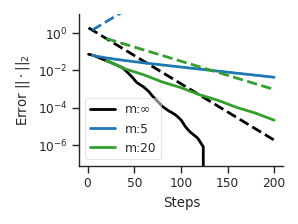
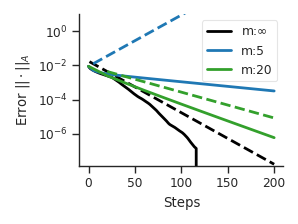
cg bounds in A norm

diff --git a/experiments/cg_bounds.py b/experiments/cg_bounds.py
@@ -2,6 +2,7 @@ import matplotlib.pyplot as plt
 import scipy
 import os
 import numpy as np
+import subprocess
 from utils import get_fig_ax, Colors, postprocess_style
 from src.matfuncb.error_bounds import get_cg_errors, get_cg_bound, get_restarted_cg_errors, get_restarted_cg_bound, \
     setup_circle_and_kappa
@@ -15,6 +16,10 @@ def prepare_starting_vector2(evecs, n: int):
 
 
 if __name__ == "__main__":
+    plot_store = {}
+    plot_store["filename"] = os.path.basename(__file__)
+    plot_store["git_commit"] = subprocess.check_output(['git', 'rev-parse', 'HEAD']).decode('ascii').strip()
+
     n = 10  # Interior grid points in each direction
     N = n ** 3  # Total number of interior points
     h = 1
@@ -27,32 +32,55 @@ if __name__ == "__main__":
     evecs = scipy.sparse.eye(N)
     bound_n = 200
 
+    plot_store['n'] = n
+    plot_store['t'] = t
+
     u0 = prepare_starting_vector2(evecs, n)
+
+
+    def A_norm(x):
+        return np.sqrt(x.T @ -A @ x)
+
+
+    u0 = u0 / A_norm(u0)
     exact = scipy.sparse.dia_array(([1 / evals], [0]), shape=(N, N)) @ u0.flatten()
+    exact_norm = A_norm(exact)
     fig, ax = get_fig_ax(factor=0.6)
     colors = Colors()
 
-    errors = get_cg_errors(t * A, 0, u0.flatten(), bound_n, solution=exact)
-    plt.plot(np.arange(1, bound_n + 1), errors, linestyle='-', color="black", label=rf"m:$\infty$")
+    errors = get_cg_errors(t * A, 0, u0.flatten(), bound_n, solution=exact, norm=A_norm)
+    idx = np.arange(bound_n + 1)
+    name = f"m:infty"
+    plot_store[name + " errors"] = errors
+    plot_store[name + " idx"] = idx
+    plt.plot(idx, errors, linestyle='-', color="black", label=rf"m:$\infty$")
     bottom = min(errors[errors > 0])
 
     _, _, kappa = setup_circle_and_kappa(min(evals), max(evals), 0)
-    errors = get_cg_bound(kappa, np.arange(1, bound_n + 1))
-    plt.plot(np.arange(1, bound_n + 1), errors, linestyle='--', color="black")
+    bounds = get_cg_bound(kappa, idx[1:])
+    bounds = exact_norm * bounds
+    plot_store[name + " bounds"] = bounds
+    plt.plot(idx[1:], bounds, linestyle='--', color="black")
 
     for i, m in enumerate([5, 20]):
         starts = bound_n // m
-        errors = get_restarted_cg_errors(t * A, 0, u0.flatten(), m, starts, solution=exact)
-        plt.plot(np.arange(m, starts * m + 1, m), errors, linestyle='-', color=colors[i], label=f"m:{m}")
+        errors = get_restarted_cg_errors(t * A, 0, u0.flatten(), m, starts, solution=exact, norm=A_norm)
+        idx = np.arange(0, starts * m + 1, m)
+        name = f"m:{m}"
+        plot_store[name + " errors"] = errors
+        plot_store[name + " idx"] = idx
+        plt.plot(idx, errors, linestyle='-', color=colors[i], label=f"m:{m}")
 
-        errors = get_restarted_cg_bound(kappa, m, starts)
-        plt.plot(np.arange(m, starts * m + 1, m), errors, linestyle='--', color=colors[i])
-    # np.savez(os.path.join(root_path, "artifacts", "plot_store" + f"heat{n}_bounds"), **plot_store)
+        bounds = get_restarted_cg_bound(kappa, m, starts)
+        bounds = exact_norm * bounds
+        plot_store[name + " bounds"] = bounds
+        plt.plot(idx[1:], bounds, linestyle='--', color=colors[i])
+    np.savez(os.path.join(root_path, "artifacts", "plot_store" + f"cg_bounds"), **plot_store)
 
     ax.set_yscale("log")
     ax.set_ylim(bottom=bottom / 10, top=10)
     ax.set_xlabel("Steps")
-    ax.set_ylabel(r"Error $||\cdot||_2$")
+    ax.set_ylabel(r"Error $||\cdot||_A$")
     ax.legend(framealpha=.5, scatterpoints=1, numpoints=1)
     postprocess_style()
     fig.tight_layout()

diff --git a/src/matfuncb/error_bounds.py b/src/matfuncb/error_bounds.py
@@ -233,36 +233,39 @@ def get_restarted_cg_bound(kappa, m, starts=1):
     return bound ** np.arange(1, starts + 1)
 
 
-def get_cg_errors(A, w, b, n):
+def get_cg_errors(A, w, b, n, solution=None, norm=scipy.linalg.norm):
     """
     Get the real 2-norm errors of CG applied to (A-wI)x=b.
     This is not realistic as part of an a-priori error indicator but for theoretical purposes.
     """
-    errors = []
-    sol = scipy.sparse.linalg.spsolve(A - w * scipy.sparse.eye(*A.shape), b)
+    if solution is None:
+        solution = scipy.sparse.linalg.spsolve(A - w * scipy.sparse.eye(*A.shape), b)
+    errors = [norm(solution)]
 
     def callback(xk):
-        error = scipy.linalg.norm(sol - xk)
+        error = norm(solution - xk)
         errors.append(error)
 
-    scipy.sparse.linalg.cg(A - w * scipy.sparse.eye(*A.shape), b, maxiter=n, callback=callback)
-    cg_errors = np.zeros(n)
+    scipy.sparse.linalg.cg(A - w * scipy.sparse.eye(*A.shape), b, x0=np.zeros_like(b), maxiter=n, callback=callback)
+    cg_errors = np.zeros(n + 1)
     cg_errors[:len(errors)] = errors
     return cg_errors
 
 
-def get_restarted_cg_errors(A, w, b, m, starts=1):
+def get_restarted_cg_errors(A, w, b, m, starts=1, solution=None, norm=scipy.linalg.norm):
     """
     Get the 2-norm errors of restarted CG applied to (A-wI)x=b.
     This is not realistic as part of an a-priori error indicator but for theoretical purposes.
     """
     errors = []
-    sol = scipy.sparse.linalg.spsolve(A - w * scipy.sparse.eye(*A.shape), b)
-    x0 = np.zeros_like(sol)
+    if solution is None:
+        solution = scipy.sparse.linalg.spsolve(A - w * scipy.sparse.eye(*A.shape), b)
+    errors = [norm(solution)]
+    x0 = np.zeros_like(solution)
     for _ in range(starts):
         x0, _ = scipy.sparse.linalg.cg(A - w * scipy.sparse.eye(*A.shape), b, x0=x0, maxiter=m)
-        errors.append(scipy.linalg.norm(sol - x0))
-    cg_errors = np.zeros(starts)
+        errors.append(norm(solution - x0))
+    cg_errors = np.zeros(starts + 1)
     cg_errors[:len(errors)] = errors
     return cg_errors
 
